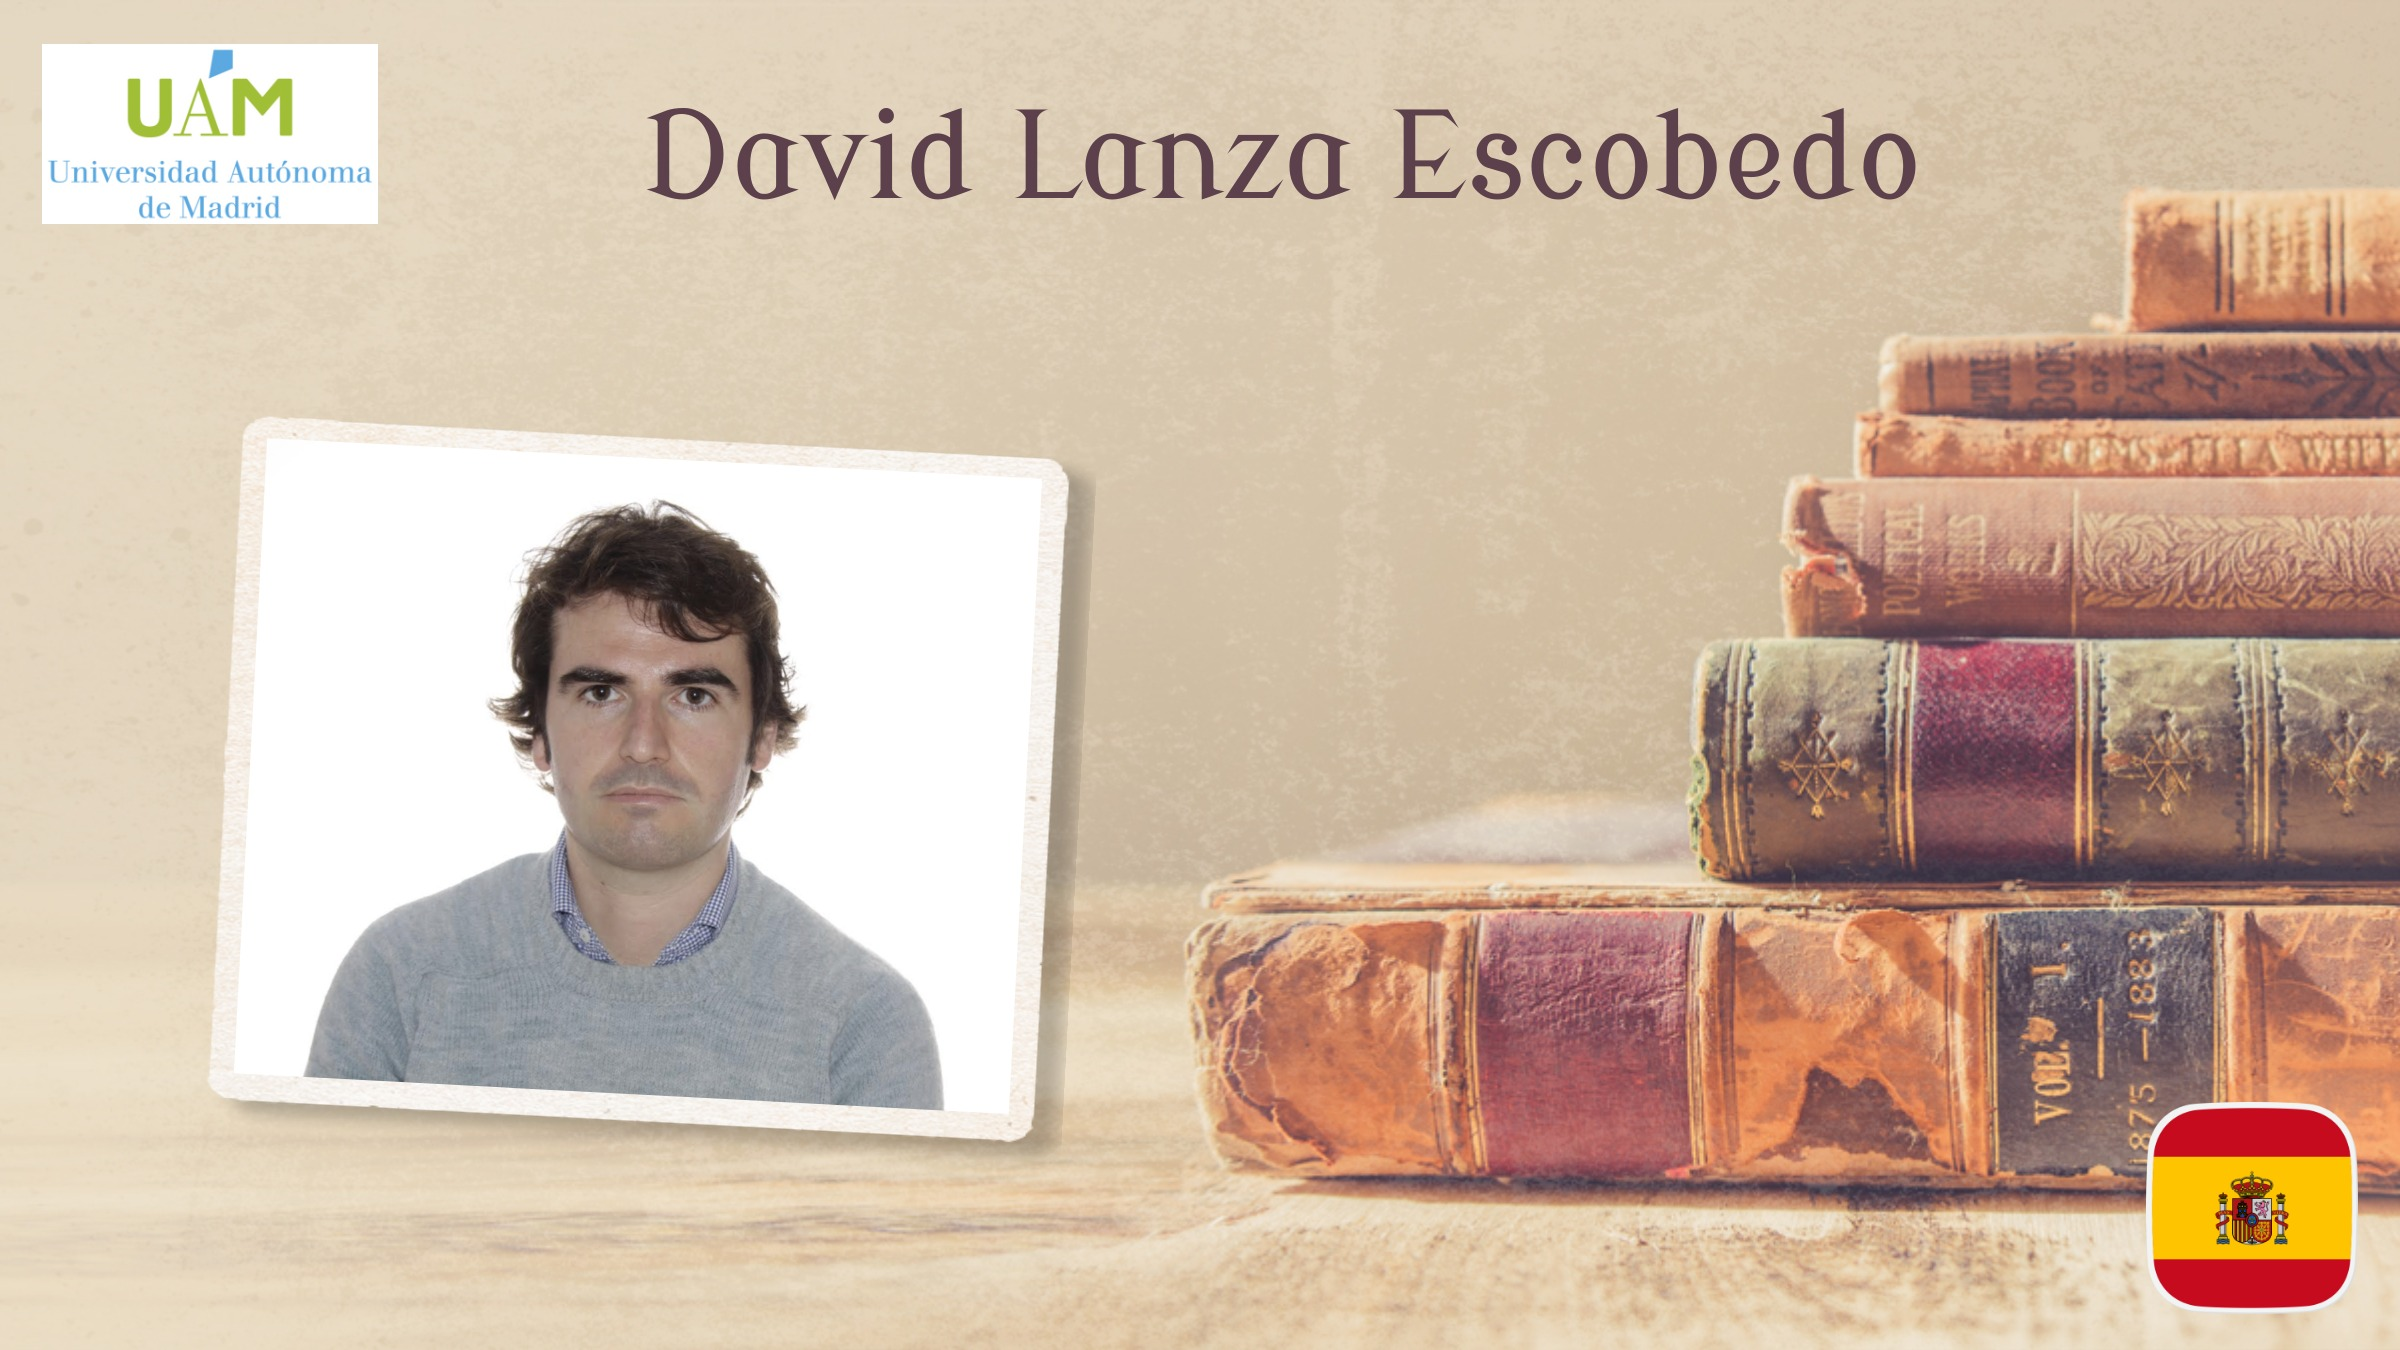
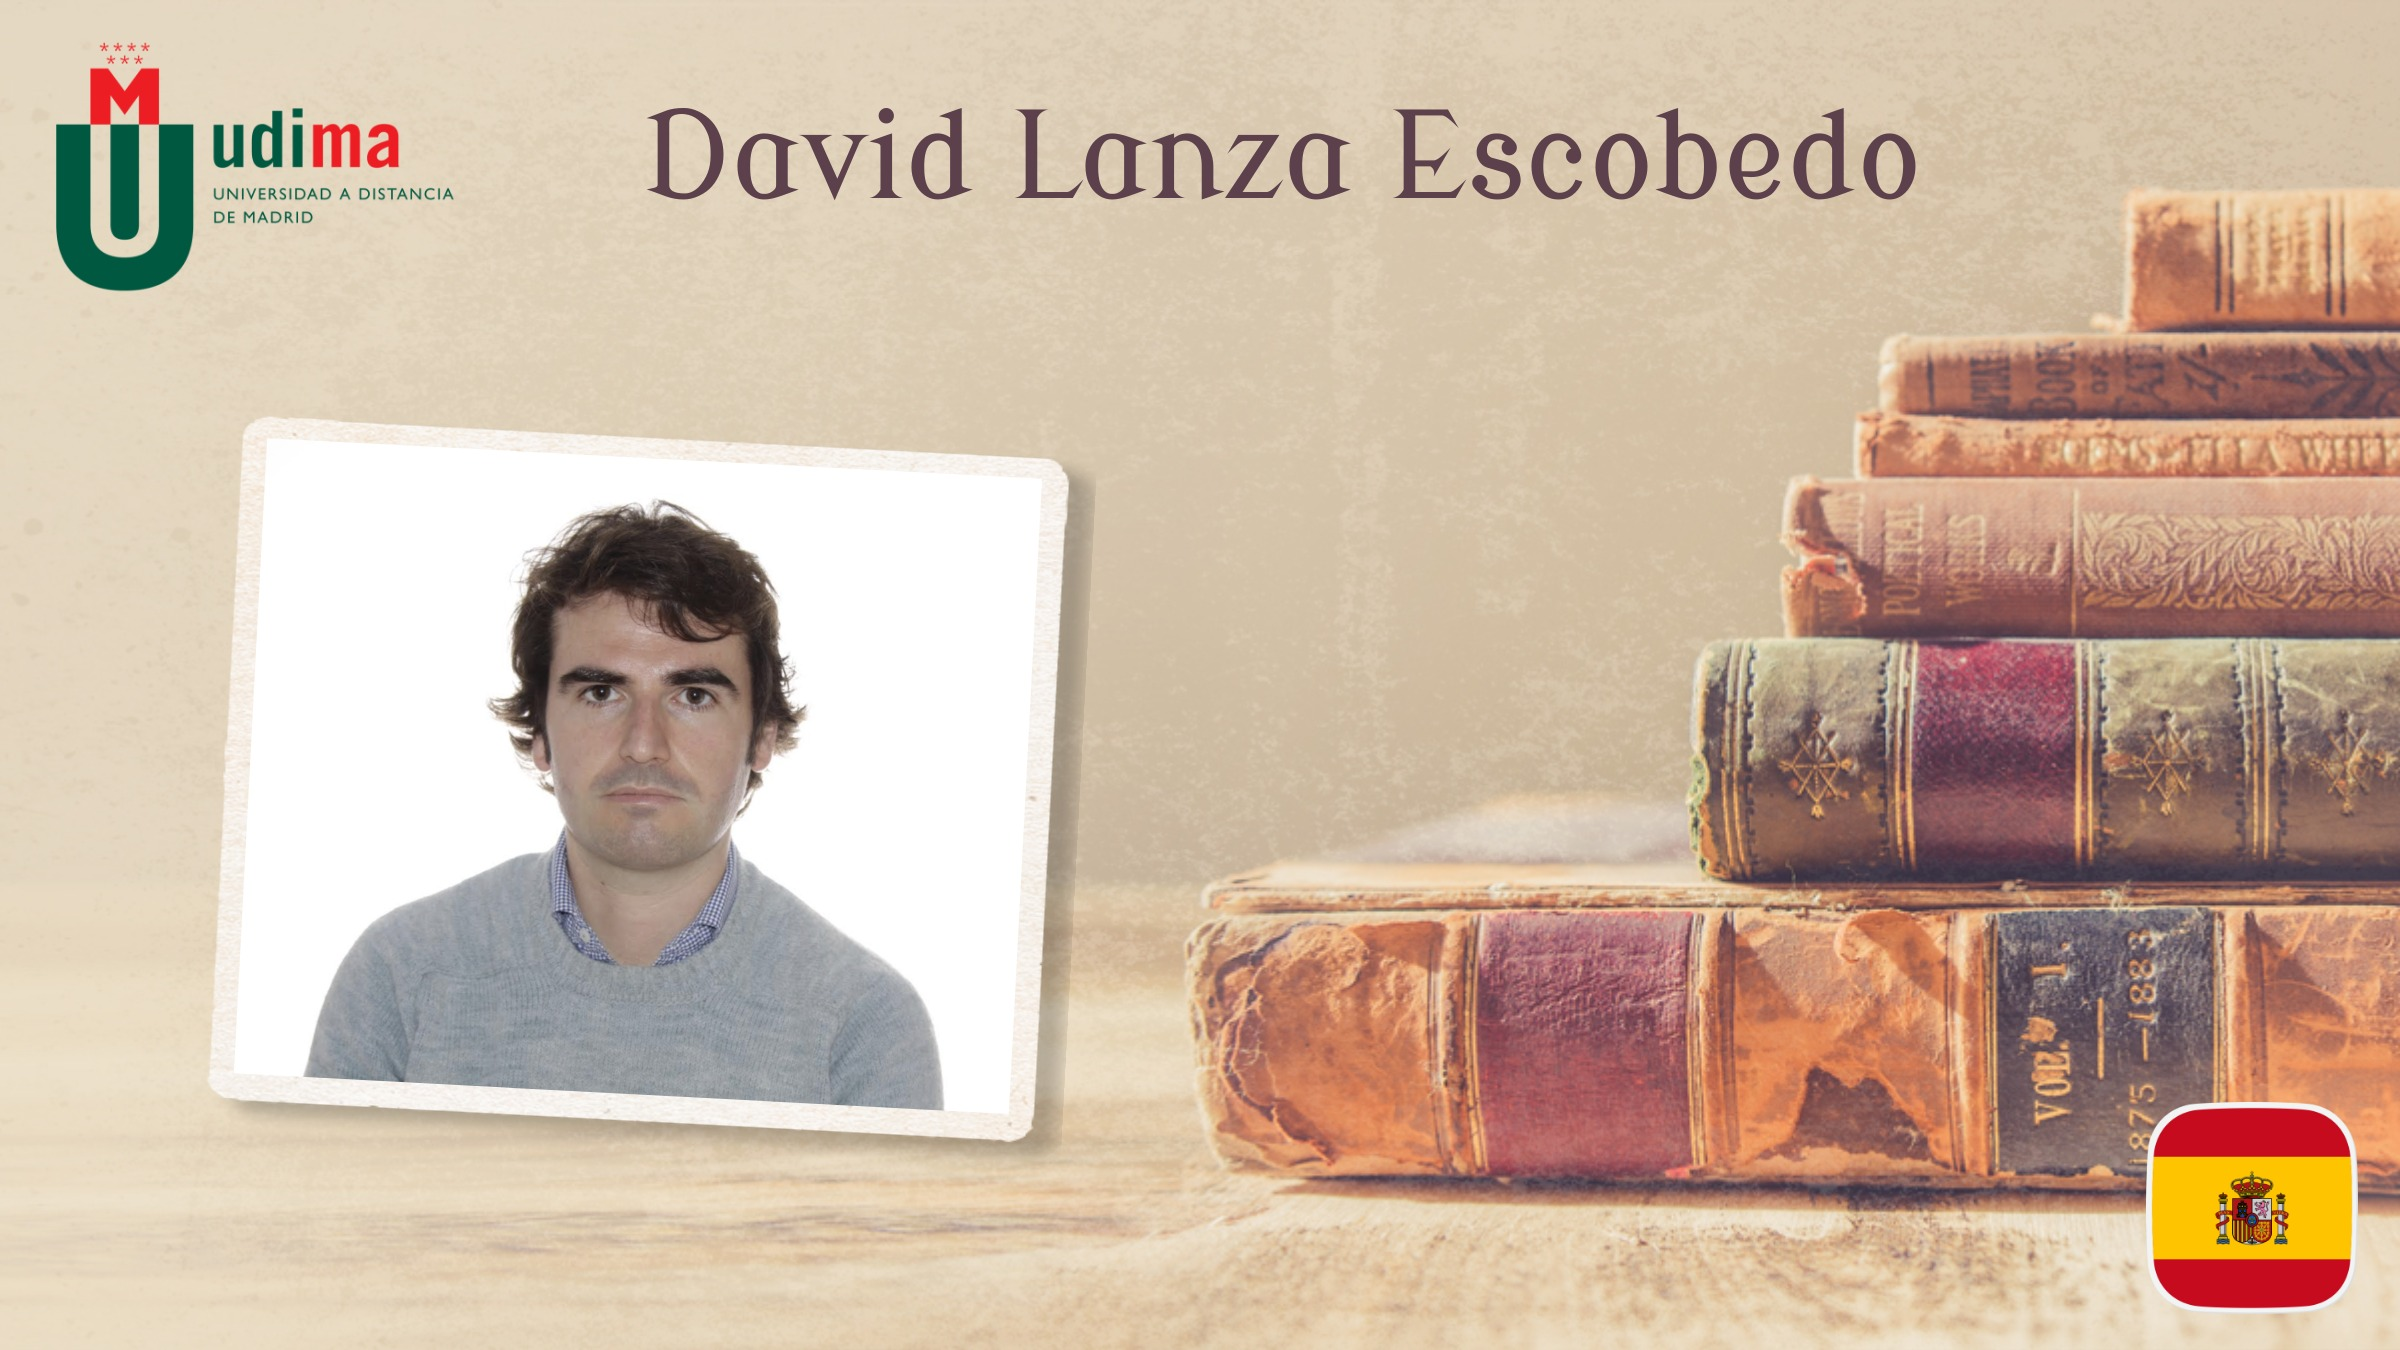
CHANGE datos Lanza; CHANGE texto Contacto

Changed region(s): [[0.0, 0.0311, 0.1875, 0.2178]]

diff --git a/src/app/pages/comite/tecnico/tecnico.component.html b/src/app/pages/comite/tecnico/tecnico.component.html
@@ -207,9 +207,9 @@
 
 
               <a href="" data-toggle="modal" data-target="#lanza" class="media d-flex align-items-center">
-                <img class="logo" src="../../../../assets/img/flags/mexico.png" alt="">
+                <img class="logo" src="../../../../assets/img/flags/spain.png" alt="">
                 <div class="media-body ml-3">
-                  <h3 class="description text-primary mb-md-1"> <strong>David Lanza Escobedo |</strong> Universidad Autónoma de Madrid</h3>
+                  <h3 class="description text-primary mb-md-1"> <strong>David Lanza Escobedo |</strong> Universidad a Distancia de Madrid (Udima)</h3>
                 </div>
               </a>
 

diff --git a/src/app/shared/footer/footer.component.html b/src/app/shared/footer/footer.component.html
@@ -151,7 +151,7 @@
         <a href="mailto:coviie@enes.unam.mx" target="_blank" class="btn btn-neutral btn-icon-only btn-round btn-lg"
           ngbTooltip="Envíanos un correo a la cuenta coviie@enes.unam.mx">
           <button type="button" class="btn btn-primary" style="font-size: smaller;">
-            Contáctanos
+            Consultas o dudas
           </button>
 
         </a>
